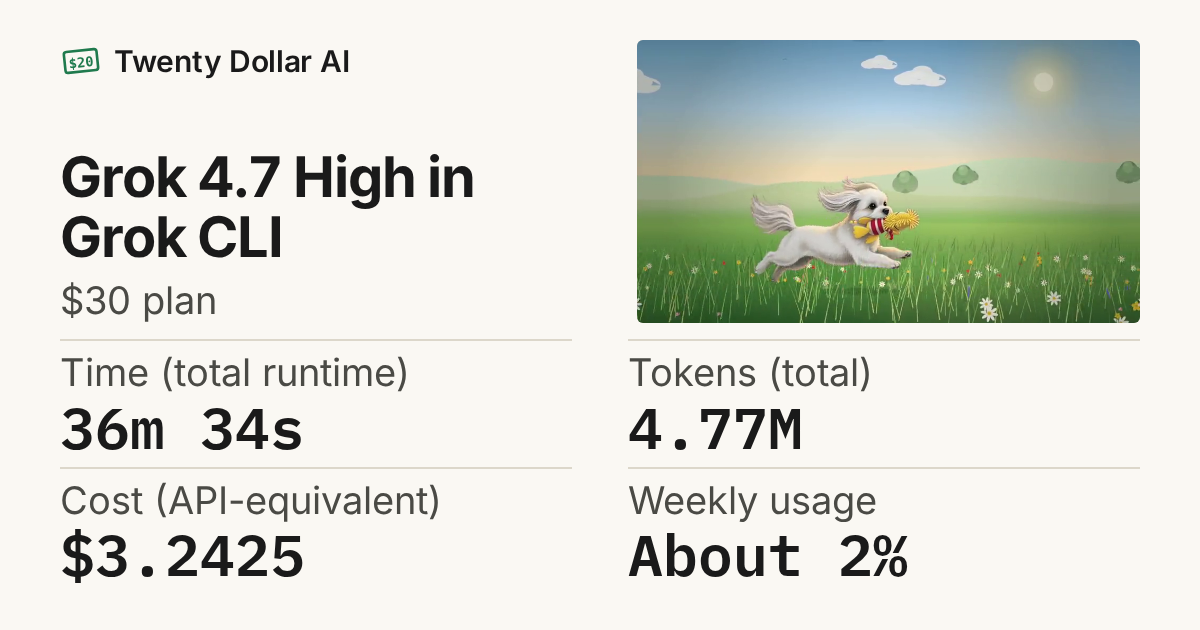
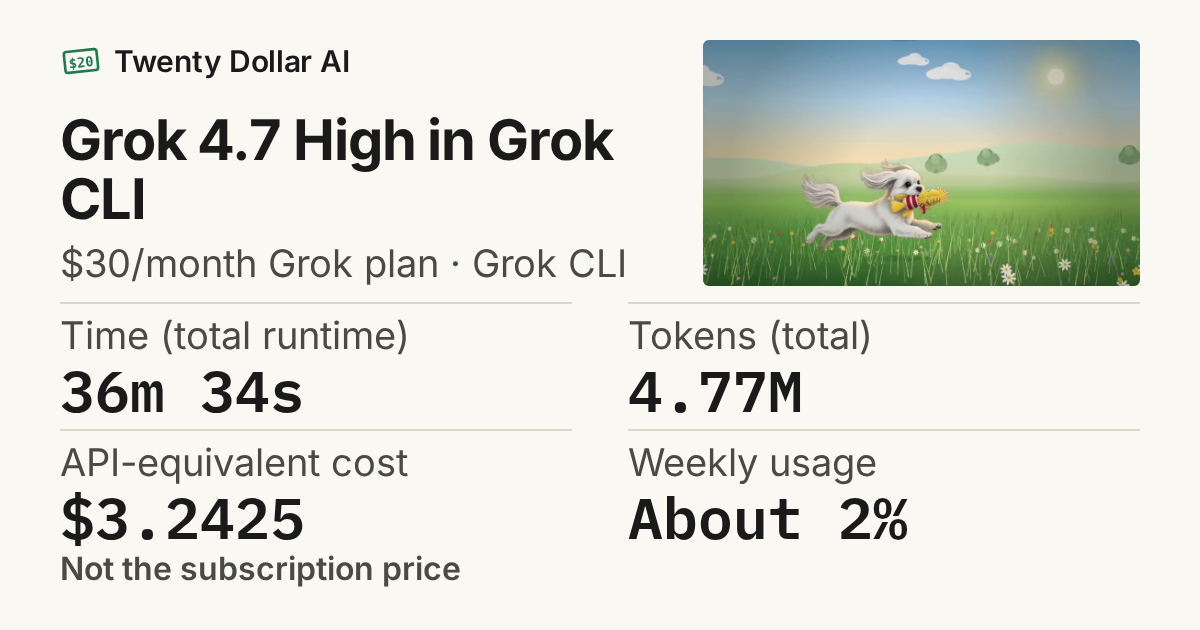
Share card: plan line names the subscription and tool from page data ($30/month Grok plan · Grok CLI); cost tile reads 'API-equivalent cost' with 'Not the subscription price'; alt text in step; 3-up grid for 5+ results

Changed region(s): [[0.0308, 0.0603, 0.9558, 0.9349], [0.7092, 0.0905, 0.8017, 0.1508], [0.8325, 0.0905, 0.8942, 0.181]]

diff --git a/PUBLISHING.md b/PUBLISHING.md
@@ -25,7 +25,7 @@ You never need to touch the site's code to publish. Every article is one Markdow
    `resultsNote` line saying where the numbers came from. If the prompt is private (or your standard benchmark prompt), write only its name or
    "Private". Never summarize or paraphrase it. Per-row `method` text isn't shown in this format.
    **The benchmark layout is locked (owner-approved Oct 24, 2026):** a new benchmark page is data only, with no layout changes without my approval.
-   **Share card:** after adding or changing a benchmark, run `node scripts/make-og-cards.mjs` and commit the PNG it writes to `public/og/benchmarks/` (the image X and other sites show for the link). The tests fail if it's missing or out of date.
+   **Share card:** after adding or changing a benchmark, run `node scripts/make-og-cards.mjs` and commit the PNG it writes to `public/og/benchmarks/` (the image X and other sites show for the link). The tests fail if it's missing or out of date. The card shows the page's plan followed by the tool ("$30/month Grok plan · Grok CLI"), so write the plan as the subscription people would recognise, price included; a "Cost (API-equivalent)" row reads "API-equivalent cost" on the card, with "Not the subscription price" under a measured figure.
    The whole benchmark page should fit on one laptop screen (1280x800), with the results and My take on the left
    and the evidence large on the right: a one-line title, one evidence item
    (a short .mp4 plays by itself, muted and looping, and stays paused for visitors who turn on "reduce motion"),

diff --git a/src/content/benchmarks/grok-4-7-high-cli-animated-maltese.md b/src/content/benchmarks/grok-4-7-high-cli-animated-maltese.md
@@ -4,7 +4,9 @@ description: "Time, tokens, cost and weekly usage for one run, plus the output."
 date: 2026-10-19
 models:
   - name: "Grok 4.7 High"
-    plan: "$30 plan"   # my plan for this run (confirmed 2026-10-24)
+    # My plan for this run: $30 (confirmed 2026-10-24). Owner, Oct 25, 2026: keep the $30 price and name the subscription clearly.
+    # No product or tier name beyond that.
+    plan: "$30/month Grok plan"
     # No price block: $3.2425 is an API-equivalent figure, not a subscription price (see results).
 # My standard benchmark prompt and data are private. Show only its name; never describe,
 # paraphrase or reconstruct the prompt.
